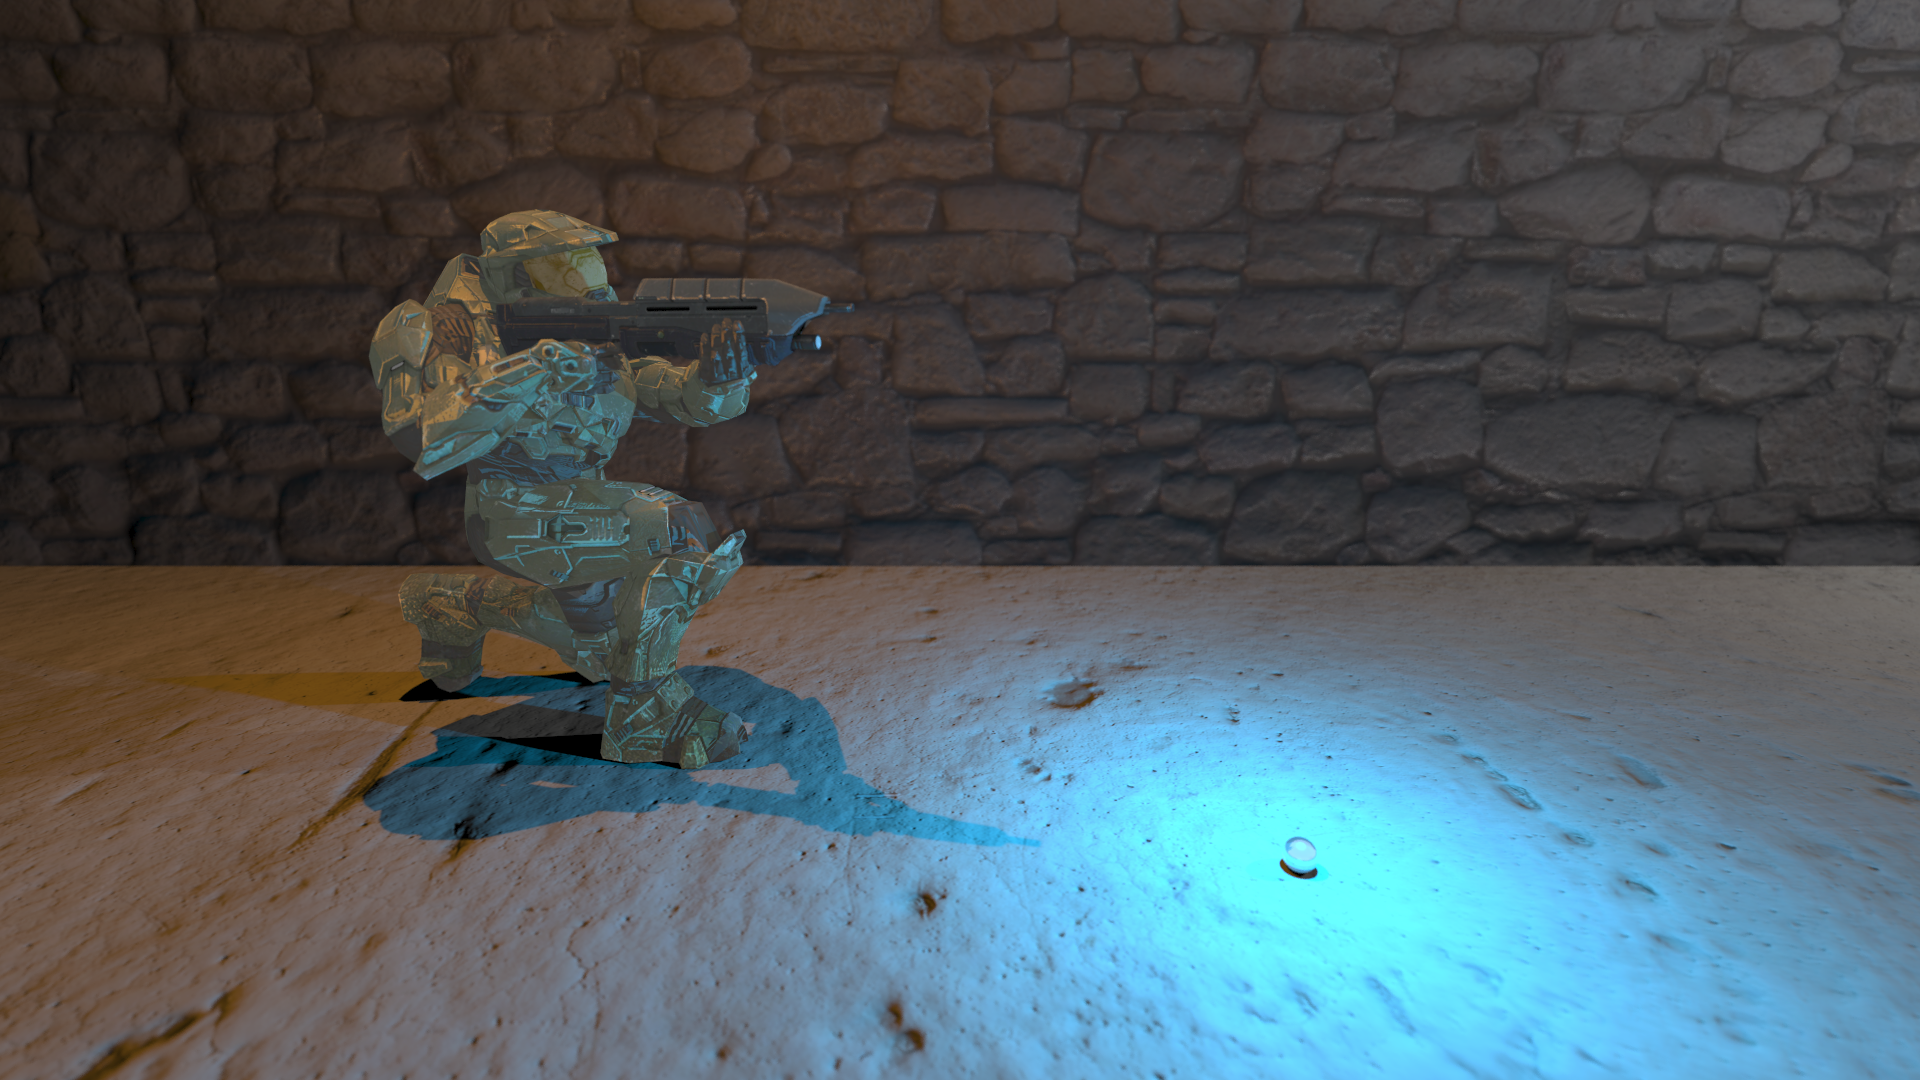
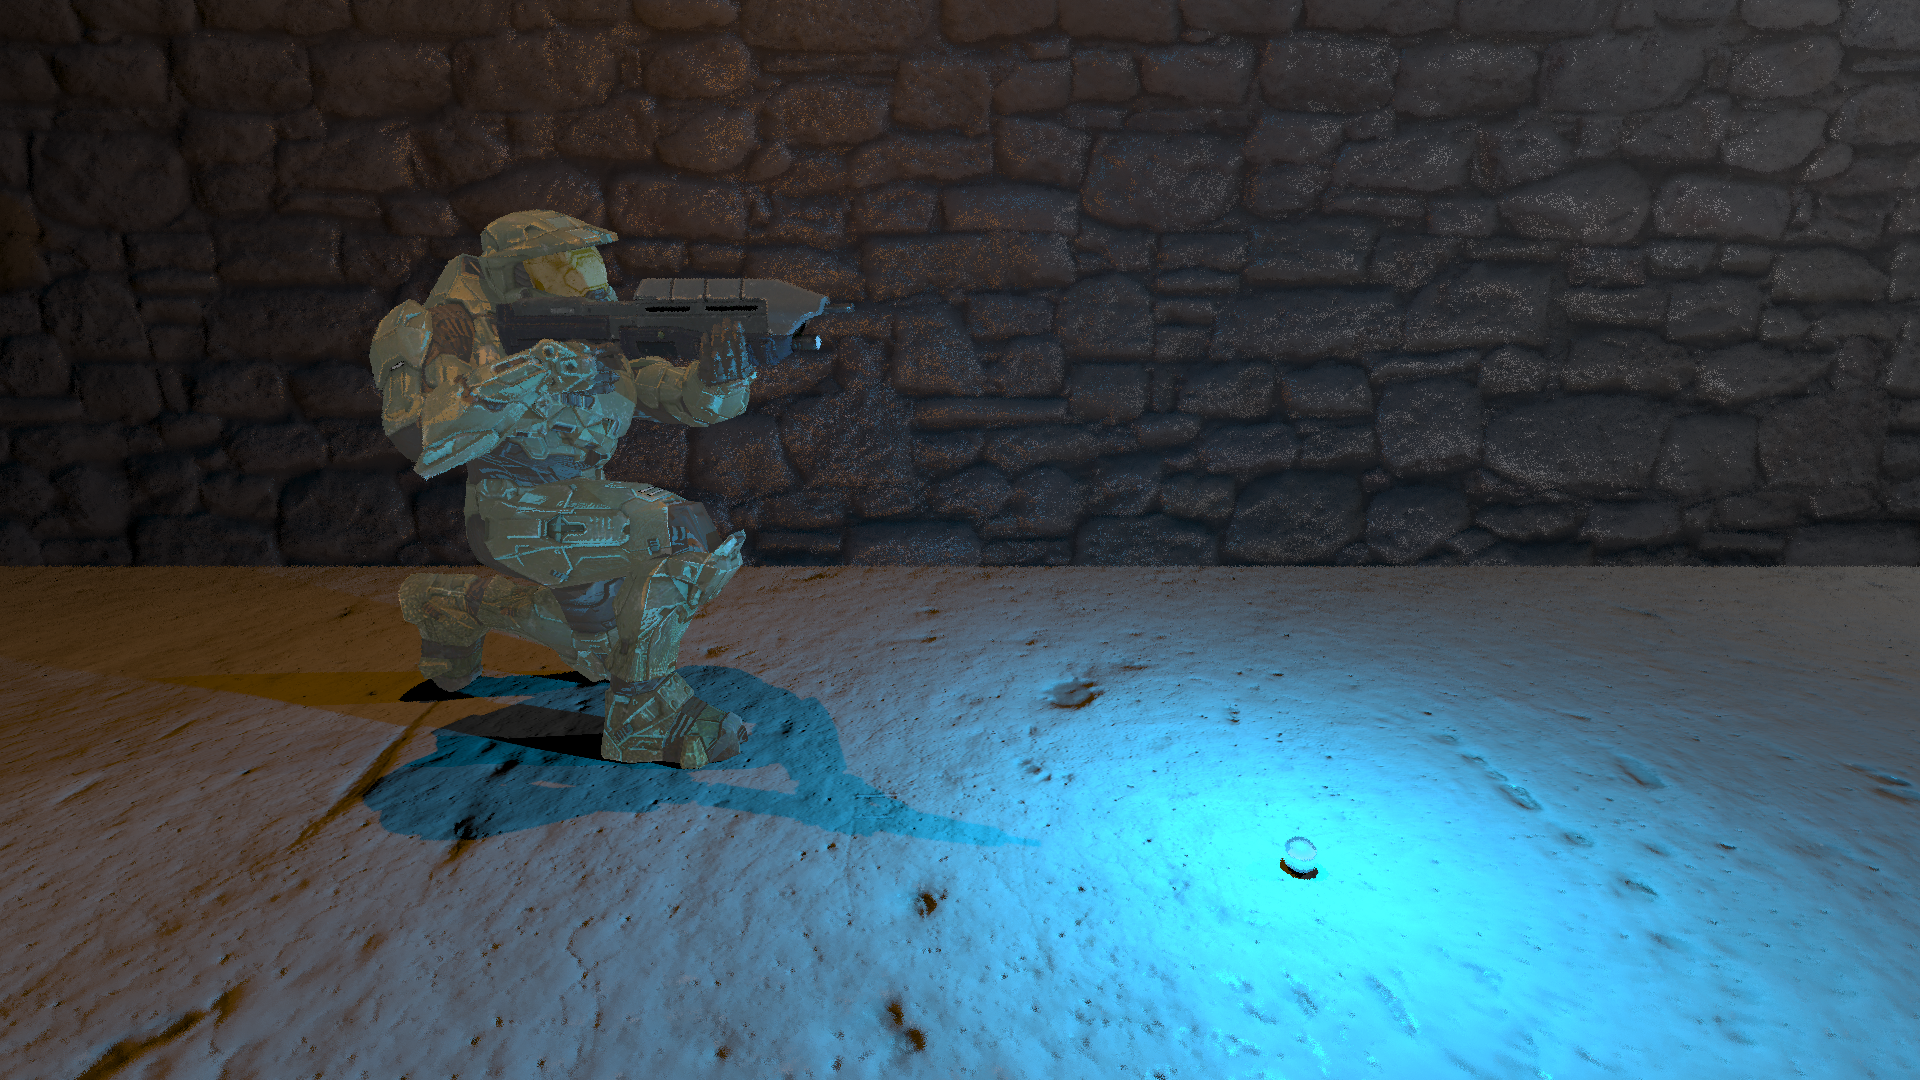
updated readme and prog output

diff --git a/src/Scene.cpp b/src/Scene.cpp
@@ -373,7 +373,7 @@ void Scene::trace()
     for (auto& thread : threads)
         thread.join();
 
-    std::cout << "Finished\n";
+    std::cout << "\n";
 }
 
 void Scene::traceSection(Camera & camera_)
@@ -414,12 +414,12 @@ void Scene::printProgress(float progress) const
     const int progressRes = 10;    
     std::string progressText = "[";
     for (int i = 0; i < progressRes; ++i)
-        {
+    {
         if (progress * progressRes > i)
             progressText += '=';
         else
             progressText += ' ';
-        }
+    }
     progressText += ']';
     if (progress < 10)
         progressText += "  ";

diff --git a/src/Material.cpp b/src/Material.cpp
@@ -40,7 +40,7 @@ Vec3 Material::color(const Vec3& N, const Vec3& V, const Vec3& L, const Vec3& li
     }
     else //blinnPhong
     {
-        color = color + (1.f - Ia_) * (kd + lightColor * ks);
+        color = color + (1.f - Ia_) * lightColor * (kd + ks);
     }
 
     return color;

diff --git a/src/Scene.h b/src/Scene.h
@@ -122,7 +122,7 @@ objects:
 lights:
   - type: "point"
     color: [1.0, 1.0, 1.0]
-    position: [200.0, 400.0, 0.0]
+    position: [200.0, 200.0, 0.0]
     radius: 25.0
     intensity: 100000.0
 camera:

diff --git a/README.md b/README.md
@@ -18,10 +18,8 @@ make -j4 -C build
 - Non PBR
 
 ## TODO
-- clean todos and fixmes
-- Render a scene with all types of geometry
-- make a few interesting scenes showing off features
-- energy conserving phong
+- clean TODOs and FIXMEs
+- energy conserving phong?
 
 ## Features
 - Multi-threaded
@@ -43,6 +41,9 @@ make -j4 -C build
 Cornell box  
 ![Cornell Box](./images/cornell.png)
 
+Default scene  
+![Default Scene](./images/default.png)
+
 Depth of field example  
 ![Depth of Field](./images/spheres.png)
 
@@ -55,3 +56,5 @@ Masterchief with texture, specular and normal maps. And a plasma gernade
 Interesting bug  
 ![Bug](./images/bug.png)
 
+## CONTRIBUTIONS
+Thanks to Cory B. for suggesting non-blocking threading.
